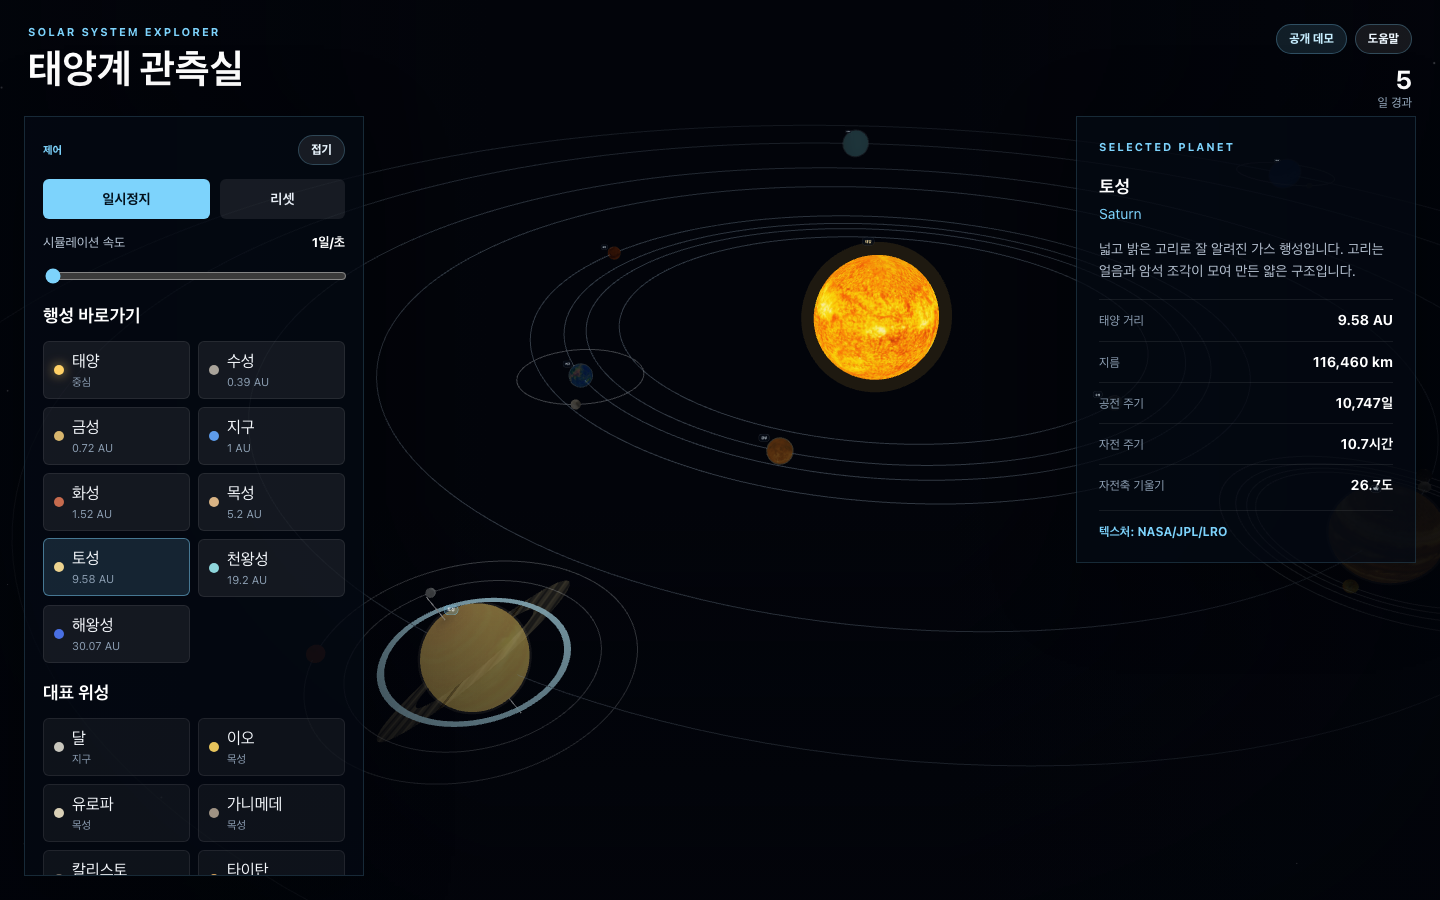
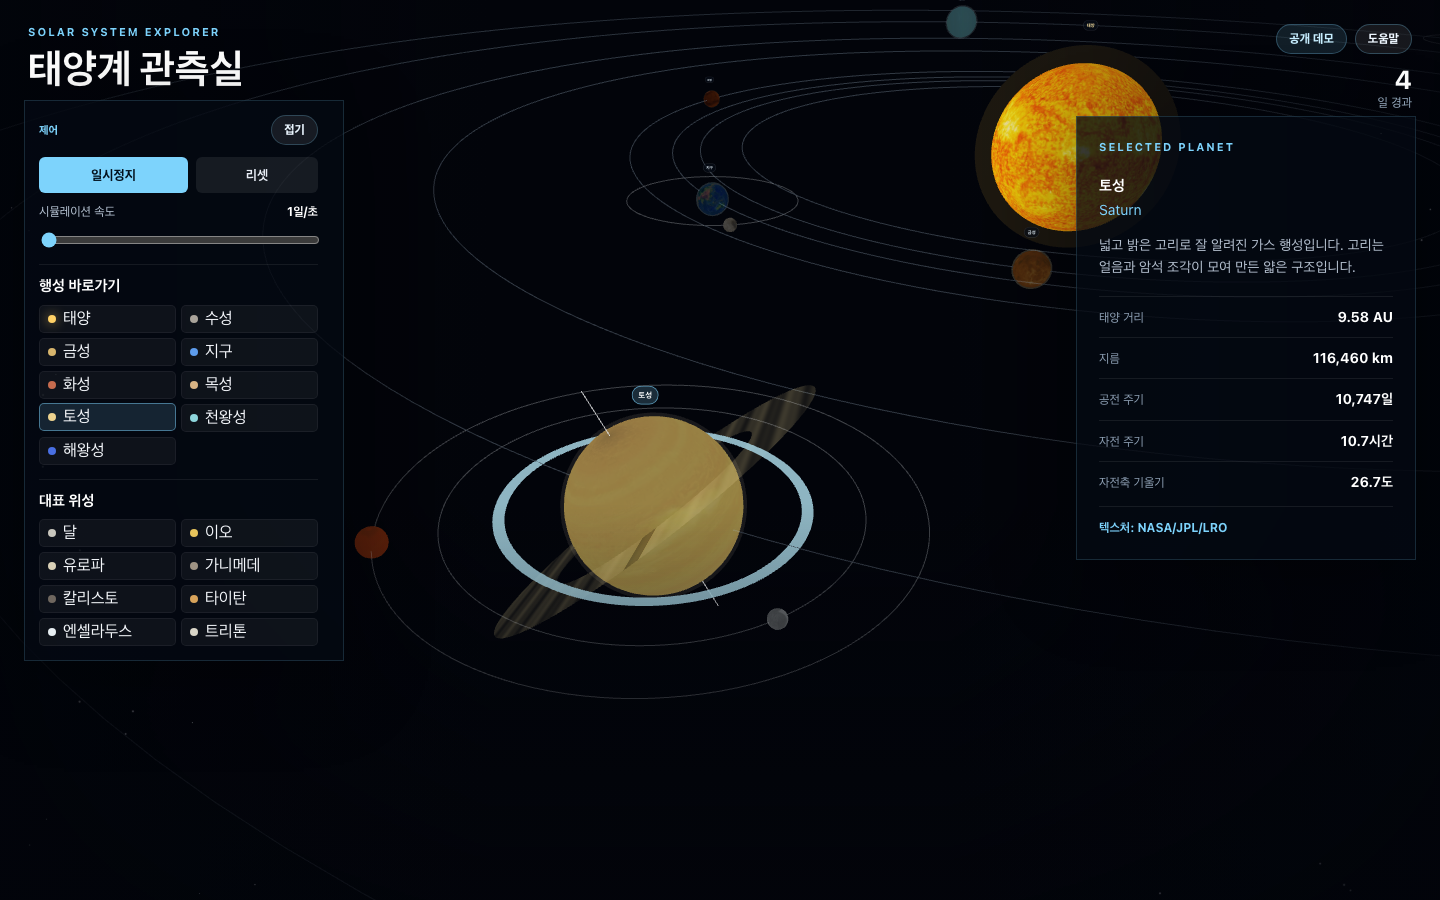
polish left control panel layout

diff --git a/src/App.css b/src/App.css
@@ -226,19 +226,32 @@
 }
 
 .control-panel {
-  bottom: 24px;
+  align-content: start;
+  bottom: auto;
   display: grid;
-  gap: 14px;
+  gap: 12px;
   left: 24px;
+  max-height: calc(100svh - 124px);
   overflow: auto;
-  padding: 18px;
-  top: 116px;
+  padding: 14px;
+  scrollbar-gutter: stable;
+  scrollbar-width: thin;
+  top: 100px;
   transition:
     background 180ms ease,
     border-color 180ms ease,
     box-shadow 180ms ease,
     transform 180ms ease;
-  width: min(340px, calc(100vw - 48px));
+  width: min(320px, calc(100vw - 48px));
+}
+
+.control-panel::-webkit-scrollbar {
+  width: 7px;
+}
+
+.control-panel::-webkit-scrollbar-thumb {
+  background: rgba(125, 211, 252, 0.24);
+  border-radius: 999px;
 }
 
 .control-panel.is-collapsed {
@@ -262,8 +275,9 @@
 }
 
 .control-panel-content {
+  align-content: start;
   display: grid;
-  gap: 20px;
+  gap: 14px;
 }
 
 .panel-kicker {
@@ -306,13 +320,18 @@
 
 .panel-section {
   display: grid;
-  gap: 14px;
+  gap: 10px;
+}
+
+.panel-section + .panel-section {
+  border-top: 1px solid rgba(255, 255, 255, 0.075);
+  padding-top: 12px;
 }
 
 .panel-section h2,
 .info-panel h2 {
   color: #ffffff;
-  font-size: 18px;
+  font-size: 15px;
   letter-spacing: 0;
   line-height: 1.15;
   margin: 0;
@@ -320,8 +339,8 @@
 
 .control-row {
   display: grid;
-  gap: 10px;
-  grid-template-columns: 1fr 0.75fr;
+  gap: 8px;
+  grid-template-columns: 1fr 0.82fr;
 }
 
 button {
@@ -333,10 +352,10 @@ button {
 .primary-action,
 .secondary-action {
   border-radius: 6px;
-  font-size: 14px;
+  font-size: 13px;
   font-weight: 700;
-  min-height: 40px;
-  padding: 0 14px;
+  min-height: 36px;
+  padding: 0 12px;
 }
 
 .primary-action {
@@ -353,7 +372,7 @@ button {
   align-items: center;
   color: #b9c6d6;
   display: flex;
-  font-size: 13px;
+  font-size: 12px;
   justify-content: space-between;
 }
 
@@ -368,21 +387,22 @@ input[type='range'] {
 
 .planet-list {
   display: grid;
-  gap: 8px;
+  gap: 5px;
   grid-template-columns: repeat(2, minmax(0, 1fr));
 }
 
 .planet-button {
   align-items: center;
-  background: rgba(255, 255, 255, 0.065);
-  border: 1px solid rgba(255, 255, 255, 0.08);
-  border-radius: 6px;
+  background: rgba(255, 255, 255, 0.045);
+  border: 1px solid rgba(255, 255, 255, 0.055);
+  border-radius: 5px;
   color: #f4f7fb;
   display: grid;
-  gap: 1px 8px;
-  grid-template-columns: 10px 1fr;
-  min-height: 44px;
-  padding: 8px 10px;
+  gap: 0 7px;
+  grid-template-columns: 8px 1fr;
+  line-height: 1.1;
+  min-height: 28px;
+  padding: 4px 8px;
   text-align: left;
   transition:
     background 160ms ease,
@@ -402,7 +422,8 @@ input[type='range'] {
 
 .planet-button small {
   color: #8ea0b4;
-  font-size: 11px;
+  display: none;
+  font-size: 10px;
   grid-column: 2;
 }
 
@@ -417,9 +438,8 @@ input[type='range'] {
 
 .planet-swatch {
   border-radius: 999px;
-  grid-row: span 2;
-  height: 10px;
-  width: 10px;
+  height: 8px;
+  width: 8px;
 }
 
 .empty-state,
@@ -545,7 +565,7 @@ button.scene-label {
   }
 
   .scene-status-overlay {
-    bottom: calc(32svh + 28px);
+    bottom: calc(32svh - 14px);
     width: min(320px, calc(100vw - 36px));
   }
 
@@ -568,9 +588,9 @@ button.scene-label {
   .control-panel {
     bottom: auto;
     left: 18px;
-    max-height: 40svh;
+    max-height: 44svh;
     overflow: auto;
-    padding: 14px;
+    padding: 12px;
     right: 18px;
     top: 126px;
     width: auto;
@@ -587,15 +607,15 @@ button.scene-label {
 
   .planet-list {
     display: grid;
-    gap: 8px;
+    gap: 6px;
     grid-template-columns: repeat(4, minmax(0, 1fr));
   }
 
   .planet-button {
-    gap: 2px 6px;
+    gap: 1px 6px;
     grid-template-columns: 8px 1fr;
-    min-height: 48px;
-    padding: 7px;
+    min-height: 42px;
+    padding: 6px;
   }
 
   .planet-button span:not(.planet-swatch) {

diff --git a/tests/solar-system.spec.ts b/tests/solar-system.spec.ts
@@ -69,6 +69,26 @@ test('collapses and restores the left control panel', async ({ page }) => {
   await expect(page.getByRole('heading', { name: '대표 위성' })).toBeVisible()
 })
 
+test('keeps the desktop control panel tidy without clipping shortcuts', async ({
+  page,
+}, testInfo) => {
+  test.skip(testInfo.project.name !== 'chromium', 'desktop layout budget')
+
+  await page.goto('/3d/')
+  await waitForSceneReady(page)
+
+  const panelBox = await page.locator('.control-panel').boundingBox()
+  const lastMoonBox = await page
+    .getByRole('button', { name: '트리톤 선택' })
+    .boundingBox()
+
+  expect(panelBox).not.toBeNull()
+  expect(lastMoonBox).not.toBeNull()
+  expect(lastMoonBox!.y + lastMoonBox!.height).toBeLessThanOrEqual(
+    panelBox!.y + panelBox!.height - 12,
+  )
+})
+
 test('selects a planet from the controls on mobile and desktop', async ({ page }) => {
   await page.goto('/3d/')
   await waitForSceneReady(page)
@@ -143,7 +163,7 @@ test('keeps wheel zoom instead of snapping the camera back', async ({
   }
 
   const persistentZoom = results.find(({ afterSettled, afterWheel, before }) => {
-    const changedEnough = Math.abs(afterWheel - before) > Math.max(20, before * 0.12)
+    const changedEnough = Math.abs(afterWheel - before) > Math.max(20, before * 0.08)
     const stayedClose =
       Math.abs(afterSettled - afterWheel) <= Math.max(30, afterWheel * 0.22)
 
